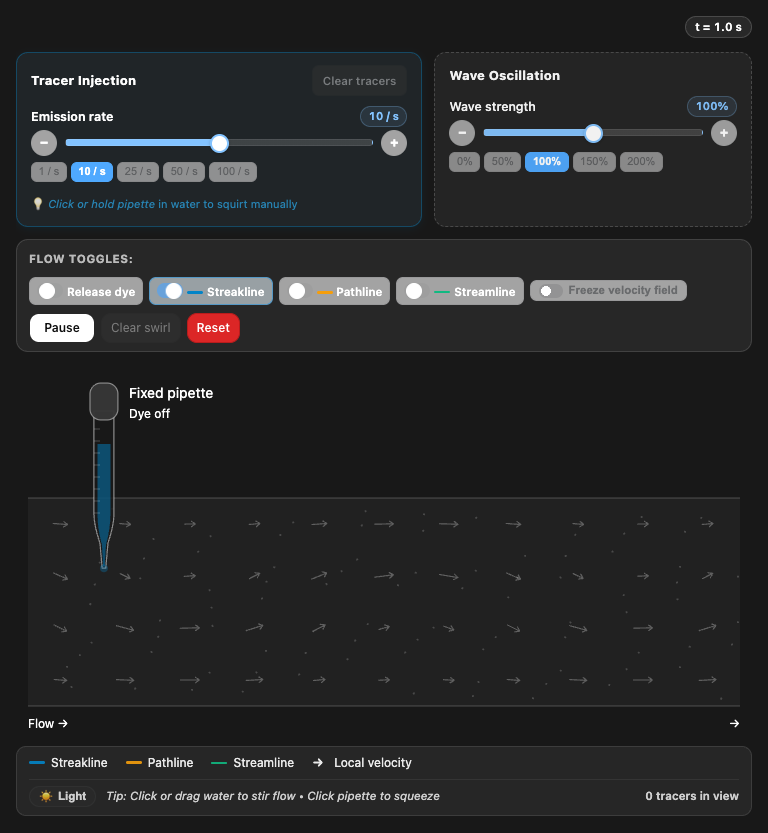
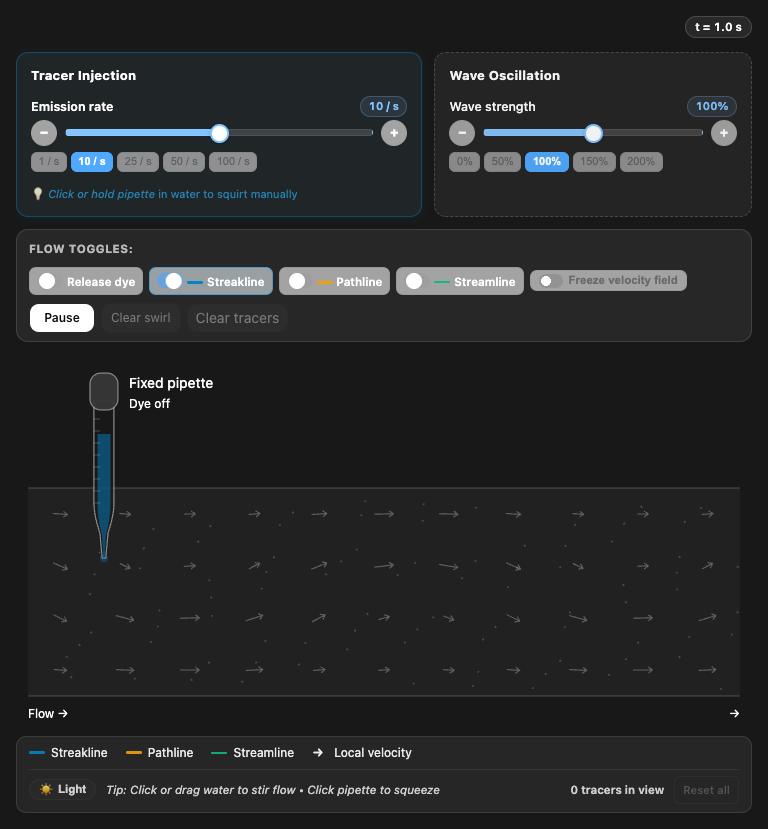
Move Clear tracers button to actions deck and move Reset all to footer

diff --git a/dist/index.html b/dist/index.html
@@ -1341,9 +1341,7 @@ html&gt;body{padding:0}&lt;/style&gt;
           &lt;div class=&quot;sl-title-with-badge&quot;&gt;
             &lt;span class=&quot;sl-card-title&quot;&gt;Tracer Injection&lt;/span&gt;
           &lt;/div&gt;
-
         &lt;/div&gt;
-        &lt;button type=&quot;button&quot; class=&quot;btn btn-secondary sl-btn-compact&quot; id=&quot;sl-clear-tracers&quot; disabled&gt;Clear tracers&lt;/button&gt;
       &lt;/div&gt;
       &lt;label class=&quot;form-label&quot; for=&quot;sl-rate&quot;&gt;
         &lt;div class=&quot;sl-label-row&quot;&gt;
@@ -1444,7 +1442,7 @@ html&gt;body{padding:0}&lt;/style&gt;
     &lt;div class=&quot;sl-actions-deck&quot;&gt;
       &lt;button type=&quot;button&quot; class=&quot;btn btn-primary&quot; id=&quot;sl-pause&quot;&gt;Pause&lt;/button&gt;
       &lt;button type=&quot;button&quot; class=&quot;btn btn-secondary&quot; id=&quot;sl-vortex-clear&quot; disabled&gt;Clear swirl&lt;/button&gt;
-      &lt;button type=&quot;button&quot; class=&quot;btn&quot; id=&quot;sl-reset&quot;&gt;Reset&lt;/button&gt;
+      &lt;button type=&quot;button&quot; class=&quot;btn btn-secondary&quot; id=&quot;sl-clear-tracers&quot; disabled&gt;Clear tracers&lt;/button&gt;
     &lt;/div&gt;
   &lt;/div&gt;
 
@@ -1502,7 +1500,10 @@ html&gt;body{padding:0}&lt;/style&gt;
         &lt;/button&gt;
         &lt;span class=&quot;sl-tip-meta&quot;&gt;Tip: Click or drag water to stir flow &amp;bull; Click pipette to squeeze&lt;/span&gt;
       &lt;/div&gt;
-      &lt;span class=&quot;tabular-nums sl-count-badge&quot; id=&quot;sl-count&quot;&gt;0 tracers in view&lt;/span&gt;
+      &lt;div class=&quot;sl-footer-right&quot;&gt;
+        &lt;span class=&quot;tabular-nums sl-count-badge&quot; id=&quot;sl-count&quot;&gt;0 tracers in view&lt;/span&gt;
+        &lt;button type=&quot;button&quot; class=&quot;btn sl-btn-reset&quot; id=&quot;sl-reset&quot; title=&quot;Reset all settings to default&quot;&gt;Reset all&lt;/button&gt;
+      &lt;/div&gt;
     &lt;/div&gt;
   &lt;/div&gt;
   &lt;div id=&quot;sl-announcement&quot; class=&quot;sr-only&quot; aria-live=&quot;polite&quot;&gt;&lt;/div&gt;
@@ -2097,28 +2098,36 @@ html&gt;body{padding:0}&lt;/style&gt;
     border-color: #4338ca;
     color: #ffffff;
   }
+  #streakline-lab .sl-footer-right {
+    display: flex;
+    align-items: center;
+    gap: 10px;
+    margin-left: auto;
+  }
   #streakline-lab #sl-reset {
-    background: #dc2626;
-    border-color: #b91c1c;
-    color: #ffffff;
+    background: transparent;
+    border: 1px solid color-mix(in srgb, var(--foreground) 22%, transparent);
+    color: var(--foreground);
+    opacity: 0.85;
+    font-size: 11px;
+    padding: 2.5px 8px;
+    border-radius: 6px;
     font-weight: 600;
-    font-size: 12px;
-    padding: 3.5px 9px;
     cursor: pointer;
-    transition: background 0.15s ease, transform 0.1s ease, box-shadow 0.15s ease;
+    transition: all 0.15s ease;
   }
   #streakline-lab #sl-reset:hover {
-    background: #b91c1c;
-    border-color: #991b1b;
-    box-shadow: 0 1px 5px rgba(220, 38, 38, 0.35);
+    opacity: 1;
+    background: color-mix(in srgb, #dc2626 12%, transparent);
+    border-color: #dc2626;
+    color: #dc2626;
   }
   #streakline-lab #sl-reset:active {
-    transform: scale(0.94);
-    background: #991b1b;
+    transform: scale(0.96);
   }
   #streakline-lab #sl-reset:focus-visible {
     outline: none;
-    box-shadow: 0 0 0 3px rgba(220, 38, 38, 0.4);
+    box-shadow: 0 0 0 2px color-mix(in srgb, #dc2626 40%, transparent);
   }
 
   /* SVG Scene */
@@ -2866,6 +2875,7 @@ html&gt;body{padding:0}&lt;/style&gt;
   layout(); requestAnimationFrame(animate);
 })();
 &lt;/script&gt;
+
 
 
 

diff --git a/index.html b/index.html
@@ -1341,9 +1341,7 @@ html&gt;body{padding:0}&lt;/style&gt;
           &lt;div class=&quot;sl-title-with-badge&quot;&gt;
             &lt;span class=&quot;sl-card-title&quot;&gt;Tracer Injection&lt;/span&gt;
           &lt;/div&gt;
-
         &lt;/div&gt;
-        &lt;button type=&quot;button&quot; class=&quot;btn btn-secondary sl-btn-compact&quot; id=&quot;sl-clear-tracers&quot; disabled&gt;Clear tracers&lt;/button&gt;
       &lt;/div&gt;
       &lt;label class=&quot;form-label&quot; for=&quot;sl-rate&quot;&gt;
         &lt;div class=&quot;sl-label-row&quot;&gt;
@@ -1444,7 +1442,7 @@ html&gt;body{padding:0}&lt;/style&gt;
     &lt;div class=&quot;sl-actions-deck&quot;&gt;
       &lt;button type=&quot;button&quot; class=&quot;btn btn-primary&quot; id=&quot;sl-pause&quot;&gt;Pause&lt;/button&gt;
       &lt;button type=&quot;button&quot; class=&quot;btn btn-secondary&quot; id=&quot;sl-vortex-clear&quot; disabled&gt;Clear swirl&lt;/button&gt;
-      &lt;button type=&quot;button&quot; class=&quot;btn&quot; id=&quot;sl-reset&quot;&gt;Reset&lt;/button&gt;
+      &lt;button type=&quot;button&quot; class=&quot;btn btn-secondary&quot; id=&quot;sl-clear-tracers&quot; disabled&gt;Clear tracers&lt;/button&gt;
     &lt;/div&gt;
   &lt;/div&gt;
 
@@ -1502,7 +1500,10 @@ html&gt;body{padding:0}&lt;/style&gt;
         &lt;/button&gt;
         &lt;span class=&quot;sl-tip-meta&quot;&gt;Tip: Click or drag water to stir flow &amp;bull; Click pipette to squeeze&lt;/span&gt;
       &lt;/div&gt;
-      &lt;span class=&quot;tabular-nums sl-count-badge&quot; id=&quot;sl-count&quot;&gt;0 tracers in view&lt;/span&gt;
+      &lt;div class=&quot;sl-footer-right&quot;&gt;
+        &lt;span class=&quot;tabular-nums sl-count-badge&quot; id=&quot;sl-count&quot;&gt;0 tracers in view&lt;/span&gt;
+        &lt;button type=&quot;button&quot; class=&quot;btn sl-btn-reset&quot; id=&quot;sl-reset&quot; title=&quot;Reset all settings to default&quot;&gt;Reset all&lt;/button&gt;
+      &lt;/div&gt;
     &lt;/div&gt;
   &lt;/div&gt;
   &lt;div id=&quot;sl-announcement&quot; class=&quot;sr-only&quot; aria-live=&quot;polite&quot;&gt;&lt;/div&gt;
@@ -2097,28 +2098,36 @@ html&gt;body{padding:0}&lt;/style&gt;
     border-color: #4338ca;
     color: #ffffff;
   }
+  #streakline-lab .sl-footer-right {
+    display: flex;
+    align-items: center;
+    gap: 10px;
+    margin-left: auto;
+  }
   #streakline-lab #sl-reset {
-    background: #dc2626;
-    border-color: #b91c1c;
-    color: #ffffff;
+    background: transparent;
+    border: 1px solid color-mix(in srgb, var(--foreground) 22%, transparent);
+    color: var(--foreground);
+    opacity: 0.85;
+    font-size: 11px;
+    padding: 2.5px 8px;
+    border-radius: 6px;
     font-weight: 600;
-    font-size: 12px;
-    padding: 3.5px 9px;
     cursor: pointer;
-    transition: background 0.15s ease, transform 0.1s ease, box-shadow 0.15s ease;
+    transition: all 0.15s ease;
   }
   #streakline-lab #sl-reset:hover {
-    background: #b91c1c;
-    border-color: #991b1b;
-    box-shadow: 0 1px 5px rgba(220, 38, 38, 0.35);
+    opacity: 1;
+    background: color-mix(in srgb, #dc2626 12%, transparent);
+    border-color: #dc2626;
+    color: #dc2626;
   }
   #streakline-lab #sl-reset:active {
-    transform: scale(0.94);
-    background: #991b1b;
+    transform: scale(0.96);
   }
   #streakline-lab #sl-reset:focus-visible {
     outline: none;
-    box-shadow: 0 0 0 3px rgba(220, 38, 38, 0.4);
+    box-shadow: 0 0 0 2px color-mix(in srgb, #dc2626 40%, transparent);
   }
 
   /* SVG Scene */
@@ -2866,6 +2875,7 @@ html&gt;body{padding:0}&lt;/style&gt;
   layout(); requestAnimationFrame(animate);
 })();
 &lt;/script&gt;
+
 
 
 

diff --git a/outputs/streakline-demo.html b/outputs/streakline-demo.html
@@ -1341,9 +1341,7 @@ html&gt;body{padding:0}&lt;/style&gt;
           &lt;div class=&quot;sl-title-with-badge&quot;&gt;
             &lt;span class=&quot;sl-card-title&quot;&gt;Tracer Injection&lt;/span&gt;
           &lt;/div&gt;
-
         &lt;/div&gt;
-        &lt;button type=&quot;button&quot; class=&quot;btn btn-secondary sl-btn-compact&quot; id=&quot;sl-clear-tracers&quot; disabled&gt;Clear tracers&lt;/button&gt;
       &lt;/div&gt;
       &lt;label class=&quot;form-label&quot; for=&quot;sl-rate&quot;&gt;
         &lt;div class=&quot;sl-label-row&quot;&gt;
@@ -1444,7 +1442,7 @@ html&gt;body{padding:0}&lt;/style&gt;
     &lt;div class=&quot;sl-actions-deck&quot;&gt;
       &lt;button type=&quot;button&quot; class=&quot;btn btn-primary&quot; id=&quot;sl-pause&quot;&gt;Pause&lt;/button&gt;
       &lt;button type=&quot;button&quot; class=&quot;btn btn-secondary&quot; id=&quot;sl-vortex-clear&quot; disabled&gt;Clear swirl&lt;/button&gt;
-      &lt;button type=&quot;button&quot; class=&quot;btn&quot; id=&quot;sl-reset&quot;&gt;Reset&lt;/button&gt;
+      &lt;button type=&quot;button&quot; class=&quot;btn btn-secondary&quot; id=&quot;sl-clear-tracers&quot; disabled&gt;Clear tracers&lt;/button&gt;
     &lt;/div&gt;
   &lt;/div&gt;
 
@@ -1502,7 +1500,10 @@ html&gt;body{padding:0}&lt;/style&gt;
         &lt;/button&gt;
         &lt;span class=&quot;sl-tip-meta&quot;&gt;Tip: Click or drag water to stir flow &amp;bull; Click pipette to squeeze&lt;/span&gt;
       &lt;/div&gt;
-      &lt;span class=&quot;tabular-nums sl-count-badge&quot; id=&quot;sl-count&quot;&gt;0 tracers in view&lt;/span&gt;
+      &lt;div class=&quot;sl-footer-right&quot;&gt;
+        &lt;span class=&quot;tabular-nums sl-count-badge&quot; id=&quot;sl-count&quot;&gt;0 tracers in view&lt;/span&gt;
+        &lt;button type=&quot;button&quot; class=&quot;btn sl-btn-reset&quot; id=&quot;sl-reset&quot; title=&quot;Reset all settings to default&quot;&gt;Reset all&lt;/button&gt;
+      &lt;/div&gt;
     &lt;/div&gt;
   &lt;/div&gt;
   &lt;div id=&quot;sl-announcement&quot; class=&quot;sr-only&quot; aria-live=&quot;polite&quot;&gt;&lt;/div&gt;
@@ -2097,28 +2098,36 @@ html&gt;body{padding:0}&lt;/style&gt;
     border-color: #4338ca;
     color: #ffffff;
   }
+  #streakline-lab .sl-footer-right {
+    display: flex;
+    align-items: center;
+    gap: 10px;
+    margin-left: auto;
+  }
   #streakline-lab #sl-reset {
-    background: #dc2626;
-    border-color: #b91c1c;
-    color: #ffffff;
+    background: transparent;
+    border: 1px solid color-mix(in srgb, var(--foreground) 22%, transparent);
+    color: var(--foreground);
+    opacity: 0.85;
+    font-size: 11px;
+    padding: 2.5px 8px;
+    border-radius: 6px;
     font-weight: 600;
-    font-size: 12px;
-    padding: 3.5px 9px;
     cursor: pointer;
-    transition: background 0.15s ease, transform 0.1s ease, box-shadow 0.15s ease;
+    transition: all 0.15s ease;
   }
   #streakline-lab #sl-reset:hover {
-    background: #b91c1c;
-    border-color: #991b1b;
-    box-shadow: 0 1px 5px rgba(220, 38, 38, 0.35);
+    opacity: 1;
+    background: color-mix(in srgb, #dc2626 12%, transparent);
+    border-color: #dc2626;
+    color: #dc2626;
   }
   #streakline-lab #sl-reset:active {
-    transform: scale(0.94);
-    background: #991b1b;
+    transform: scale(0.96);
   }
   #streakline-lab #sl-reset:focus-visible {
     outline: none;
-    box-shadow: 0 0 0 3px rgba(220, 38, 38, 0.4);
+    box-shadow: 0 0 0 2px color-mix(in srgb, #dc2626 40%, transparent);
   }
 
   /* SVG Scene */
@@ -2866,6 +2875,7 @@ html&gt;body{padding:0}&lt;/style&gt;
   layout(); requestAnimationFrame(animate);
 })();
 &lt;/script&gt;
+
 
 
 

diff --git a/work/streakline-preview.html b/work/streakline-preview.html
@@ -1341,9 +1341,7 @@ html&gt;body{padding:0}&lt;/style&gt;
           &lt;div class=&quot;sl-title-with-badge&quot;&gt;
             &lt;span class=&quot;sl-card-title&quot;&gt;Tracer Injection&lt;/span&gt;
           &lt;/div&gt;
-
         &lt;/div&gt;
-        &lt;button type=&quot;button&quot; class=&quot;btn btn-secondary sl-btn-compact&quot; id=&quot;sl-clear-tracers&quot; disabled&gt;Clear tracers&lt;/button&gt;
       &lt;/div&gt;
       &lt;label class=&quot;form-label&quot; for=&quot;sl-rate&quot;&gt;
         &lt;div class=&quot;sl-label-row&quot;&gt;
@@ -1444,7 +1442,7 @@ html&gt;body{padding:0}&lt;/style&gt;
     &lt;div class=&quot;sl-actions-deck&quot;&gt;
       &lt;button type=&quot;button&quot; class=&quot;btn btn-primary&quot; id=&quot;sl-pause&quot;&gt;Pause&lt;/button&gt;
       &lt;button type=&quot;button&quot; class=&quot;btn btn-secondary&quot; id=&quot;sl-vortex-clear&quot; disabled&gt;Clear swirl&lt;/button&gt;
-      &lt;button type=&quot;button&quot; class=&quot;btn&quot; id=&quot;sl-reset&quot;&gt;Reset&lt;/button&gt;
+      &lt;button type=&quot;button&quot; class=&quot;btn btn-secondary&quot; id=&quot;sl-clear-tracers&quot; disabled&gt;Clear tracers&lt;/button&gt;
     &lt;/div&gt;
   &lt;/div&gt;
 
@@ -1502,7 +1500,10 @@ html&gt;body{padding:0}&lt;/style&gt;
         &lt;/button&gt;
         &lt;span class=&quot;sl-tip-meta&quot;&gt;Tip: Click or drag water to stir flow &amp;bull; Click pipette to squeeze&lt;/span&gt;
       &lt;/div&gt;
-      &lt;span class=&quot;tabular-nums sl-count-badge&quot; id=&quot;sl-count&quot;&gt;0 tracers in view&lt;/span&gt;
+      &lt;div class=&quot;sl-footer-right&quot;&gt;
+        &lt;span class=&quot;tabular-nums sl-count-badge&quot; id=&quot;sl-count&quot;&gt;0 tracers in view&lt;/span&gt;
+        &lt;button type=&quot;button&quot; class=&quot;btn sl-btn-reset&quot; id=&quot;sl-reset&quot; title=&quot;Reset all settings to default&quot;&gt;Reset all&lt;/button&gt;
+      &lt;/div&gt;
     &lt;/div&gt;
   &lt;/div&gt;
   &lt;div id=&quot;sl-announcement&quot; class=&quot;sr-only&quot; aria-live=&quot;polite&quot;&gt;&lt;/div&gt;
@@ -2097,28 +2098,36 @@ html&gt;body{padding:0}&lt;/style&gt;
     border-color: #4338ca;
     color: #ffffff;
   }
+  #streakline-lab .sl-footer-right {
+    display: flex;
+    align-items: center;
+    gap: 10px;
+    margin-left: auto;
+  }
   #streakline-lab #sl-reset {
-    background: #dc2626;
-    border-color: #b91c1c;
-    color: #ffffff;
+    background: transparent;
+    border: 1px solid color-mix(in srgb, var(--foreground) 22%, transparent);
+    color: var(--foreground);
+    opacity: 0.85;
+    font-size: 11px;
+    padding: 2.5px 8px;
+    border-radius: 6px;
     font-weight: 600;
-    font-size: 12px;
-    padding: 3.5px 9px;
     cursor: pointer;
-    transition: background 0.15s ease, transform 0.1s ease, box-shadow 0.15s ease;
+    transition: all 0.15s ease;
   }
   #streakline-lab #sl-reset:hover {
-    background: #b91c1c;
-    border-color: #991b1b;
-    box-shadow: 0 1px 5px rgba(220, 38, 38, 0.35);
+    opacity: 1;
+    background: color-mix(in srgb, #dc2626 12%, transparent);
+    border-color: #dc2626;
+    color: #dc2626;
   }
   #streakline-lab #sl-reset:active {
-    transform: scale(0.94);
-    background: #991b1b;
+    transform: scale(0.96);
   }
   #streakline-lab #sl-reset:focus-visible {
     outline: none;
-    box-shadow: 0 0 0 3px rgba(220, 38, 38, 0.4);
+    box-shadow: 0 0 0 2px color-mix(in srgb, #dc2626 40%, transparent);
   }
 
   /* SVG Scene */
@@ -2866,6 +2875,7 @@ html&gt;body{padding:0}&lt;/style&gt;
   layout(); requestAnimationFrame(animate);
 })();
 &lt;/script&gt;
+
 
 
 
